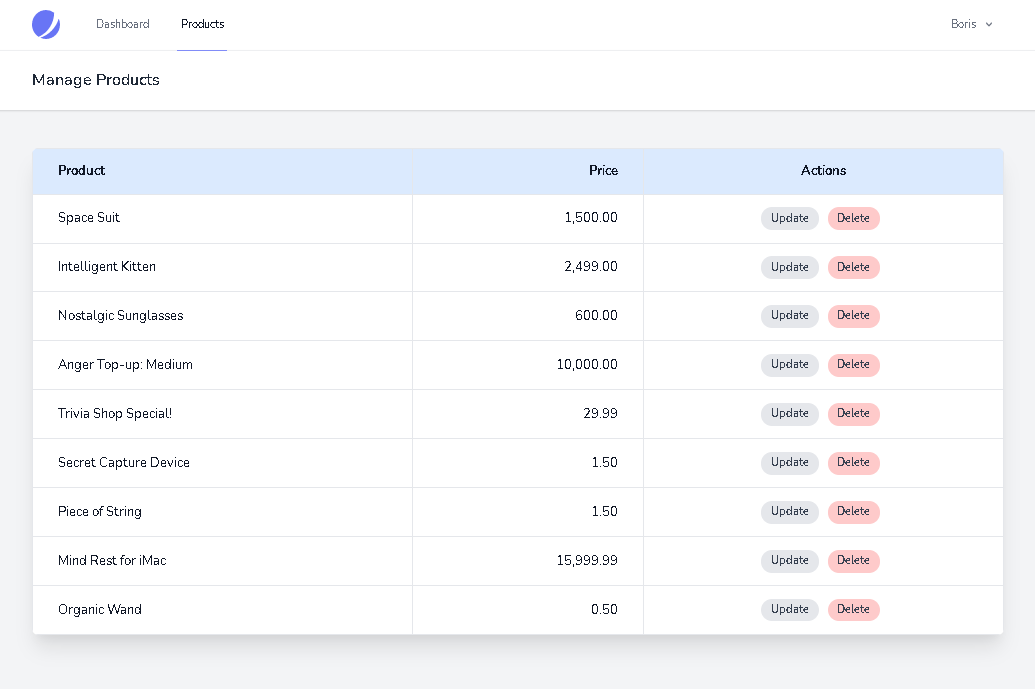
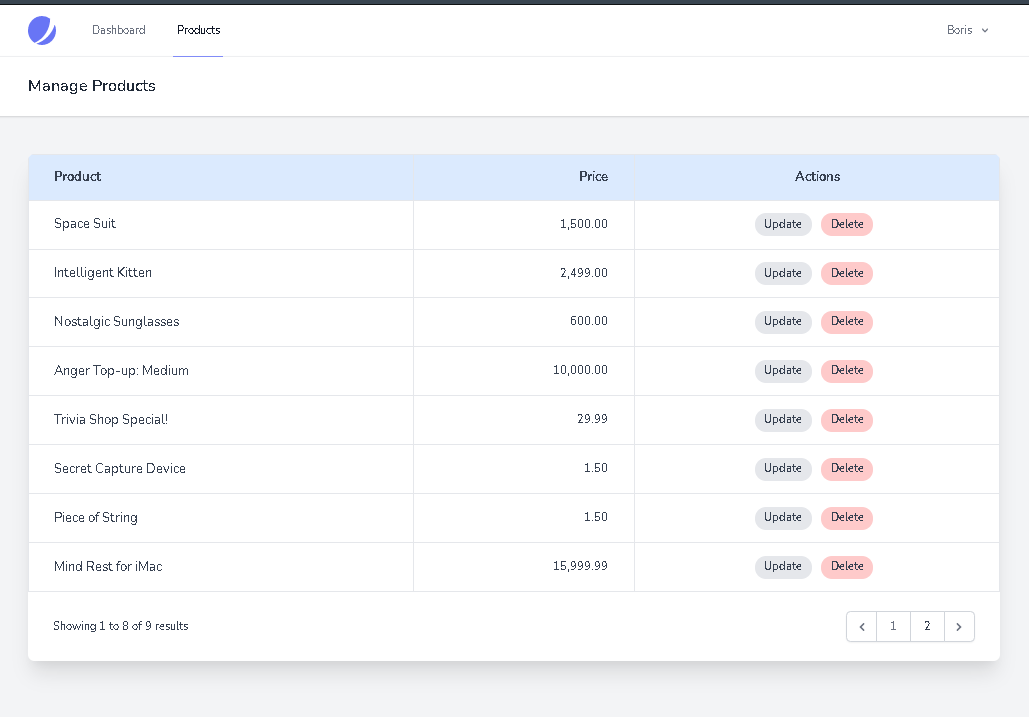
add pagination

diff --git a/public/css/app.css b/public/css/app.css
@@ -1285,12 +1285,6 @@ select {
 .w-28 {
 	width: 7rem;
 }
-.w-1\/2 {
-	width: 50%;
-}
-.w-1\/4 {
-	width: 25%;
-}
 .min-w-0 {
 	min-width: 0px;
 }
@@ -1317,9 +1311,6 @@ select {
 }
 .table-auto {
 	table-layout: auto;
-}
-.table-fixed {
-	table-layout: fixed;
 }
 .origin-top-left {
 	transform-origin: top left;
@@ -1549,10 +1540,6 @@ select {
 	--tw-bg-opacity: 1;
 	background-color: rgba(6, 95, 70, var(--tw-bg-opacity));
 }
-.bg-blue-200 {
-	--tw-bg-opacity: 1;
-	background-color: rgba(191, 219, 254, var(--tw-bg-opacity));
-}
 .bg-blue-100 {
 	--tw-bg-opacity: 1;
 	background-color: rgba(219, 234, 254, var(--tw-bg-opacity));
@@ -1685,6 +1672,9 @@ select {
 }
 .pb-6 {
 	padding-bottom: 1.5rem;
+}
+.pb-12 {
+	padding-bottom: 3rem;
 }
 .text-left {
 	text-align: left;

diff --git a/database/seeders/ProductsSeeder.php b/database/seeders/ProductsSeeder.php
@@ -15,39 +15,39 @@ class ProductsSeeder extends Seeder
     public function run()
     {
         DB::table('products')->insert([
-            ["id" => 1,
+            [
                 "name" => "Space Suit",
                 "description" => "'Bad-ass' design as per Elon Musk's brief. Fitting any lockdown reveller, with pockets to spare.",
                 "price" => "1500.00"],
-            ["id" => 2,
+            [
                 "name" => "Intelligent Kitten",
                 "description" => "Able to recognize 19 species of rodents and solve Prisoners Dilemma without use of calculator.",
                 "price" => "2499.00"],
-            ["id" => 3,
+            [
                 "name" => "Nostalgic Sunglasses",
                 "description" => "Let no one blinds you with science. Good for any occasion. BYODM (Bring Your Own Doc Martens)",
                 "price" => "600.00"],
-            ["id" => 4,
+            [
                 "name" => "Anger Top-up: Medium",
                 "description" => "Just pay, then open a ticket and we may tell you how it works.'",
                 "price" => "10000.00"],
-            ["id" => 5,
+            [
                 "name" => "Trivia Shop Special!",
                 "description" => "This lucky packet reveals how plug in USB stick in less than three attempts.",
                 "price" => "29.99"],
-            ["id" => 6,
+            [
                 "name" => "Secret Capture Device",
                 "description" => "No description.",
                 "price" => "1.50"],
-            ["id" => 7,
+            [
                 "name" => "Piece of String",
                 "description" => "Sold in various lengths for the same price.",
                 "price" => "1.50"],
-            ["id" => 8,
+            [
                 "name" => "Mind Rest for iMac",
                 "description" => "You will never again wonder where did it leave.",
                 "price" => "15999.99"],
-            ["id" => 9,
+            [
                 "name" => "Organic Wand",
                 "description" => "That's right - just wave it and stick our green sticker over it.",
                 "price" => "0.00"]

diff --git a/resources/views/livewire/manage-products.blade.php b/resources/views/livewire/manage-products.blade.php
@@ -9,7 +9,7 @@
         <div class="max-w-7xl mx-auto sm:px-6 lg:px-8">
             <div class="bg-white overflow-hidden shadow-xl sm:rounded-lg">
 
-                <table class="table-auto w-full text-gray-900">
+                <table class="table-auto w-full text-gray-700">
                     <thead>
                         <tr>
                             <th class="bg-blue-100 border px-8 py-4 text-left p-2">Product</th>
@@ -21,7 +21,7 @@
                         @foreach ($products as $p)
                         <tr class="ml-2">
                             <td class="border px-8 py-4 text-left">{{ $p->name }}</td>
-                            <td class="border px-8 py-4 text-right">{{ number_format($p->price, 2, '.', ',') }}</td>
+                            <td class="border px-8 py-4 text-right text-sm">{{ number_format($p->price, 2, '.', ',') }}</td>
                             <td class="border px-8 py-4 text-center">
                             <span class="inline-block bg-gray-200 rounded-full px-3 py-1 text-sm font-semibold text-gray-700 mr-2 cursor-pointer">
                                 Update
@@ -35,6 +35,13 @@
                         @endforeach
                     </tbody>
                 </table>
+
+                <div class="px-8 py-6">{{ $products->links() }}</div>
+
+                @if ($products->isEmpty())
+                    <h3 class="px-8 py-6">Welcome to simple-shop app.</h3>
+                    <h3 class="px-8 pb-12">Create your first product and good luck with sales!</h3>
+                @endif
             </div>
         </div>
     </div>

diff --git a/app/Http/Livewire/ManageProducts.php b/app/Http/Livewire/ManageProducts.php
@@ -5,27 +5,20 @@ namespace App\Http\Livewire;
 use App\Models\Product;
 
 use Livewire\Component;
+use Livewire\WithPagination;
 
 class ManageProducts extends Component
 {
 
-    public $products;
-    /**
-      * - any public vars, or collections ($products above) in this class are accessible in the template
-      * - any method in this controller can be called directly from the template
-      * - should any method change the public variable, the front will instantly update without page reload
-      * - the best of all, all updates are plain html (not JSON), so fully SEO friendly
-      * - livewire offers illusion of the SPA, without its SEO pitfalls
-    */
-
+    use WithPagination;
 
     public function render()
     {
 
-        $this->products = Product::get();
+        $products = Product::paginate(8);
 
         return view('livewire.manage-products', [
-            'products' => $this->products,
+            'products' => $products,
         ]);
     }
 

diff --git a/app/Http/Controllers/ProductsController.php b/app/Http/Controllers/ProductsController.php
@@ -8,8 +8,6 @@ use Illuminate\Http\Request;
 class ProductsController extends Controller
 {
 
-    // use WithPagination; // not used for now
-
     /**
      * Display a listing of the resource.
      *

diff --git a/NOTES/README.md b/NOTES/README.md
@@ -83,7 +83,7 @@ Form pages will each have own controller and will be Livewire(d), so that, for e
 reloading an entire page.
 
 - [ ] wire product create page form
-- [ ] wire product management page (table)
+- [x] wire product management page (table)
 - [ ] wire product update page
 
 This would be the end of the Phase 1. The styling and responsiveness may still be outstanding.
